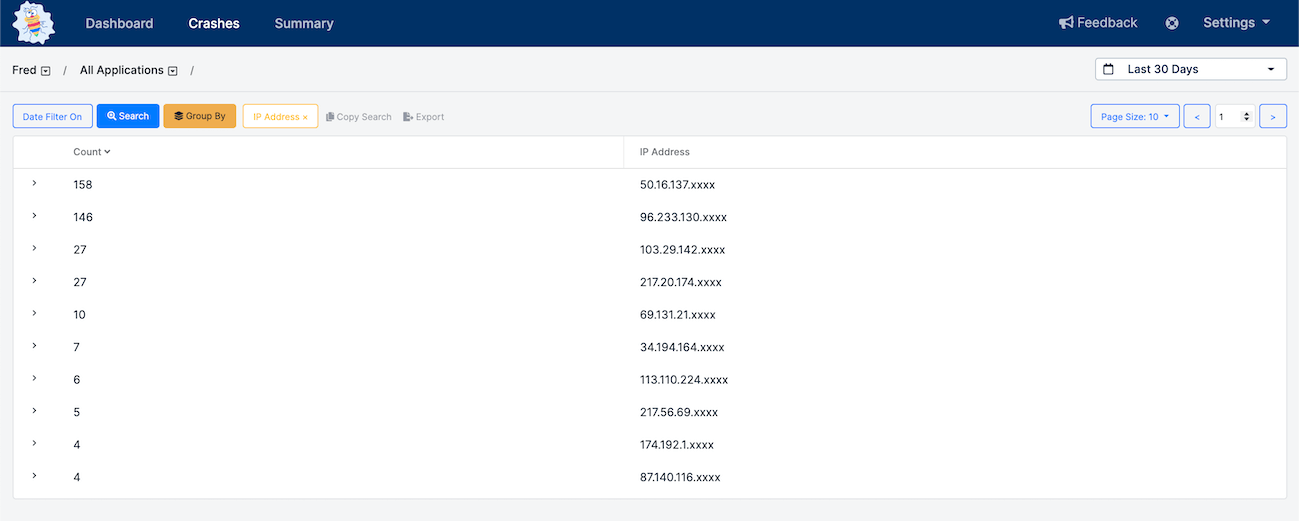
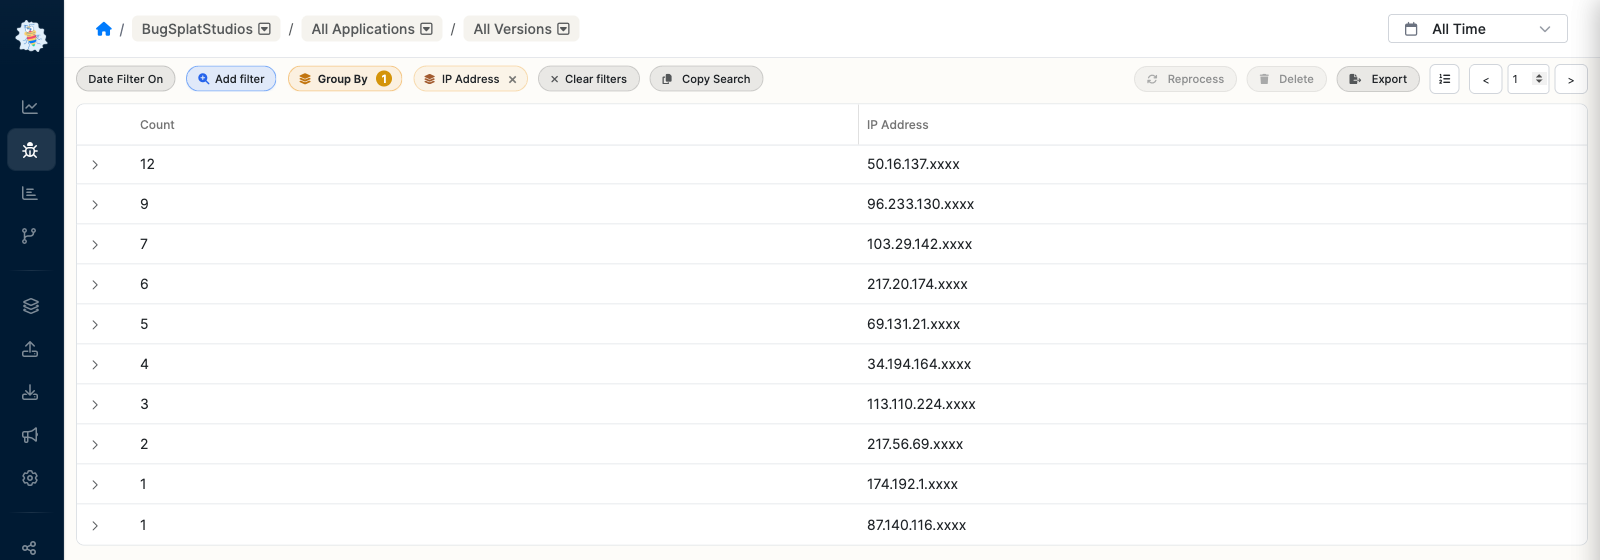
docs: refresh contacting-users and group-by-IP screenshots (#308)
Recapture against the current app UI (collapsed sidebar, breadcrumb chips,
white cards):

- contacting-users: new Report Details view with the Contact button
  highlighted; update the button reference from "Contact User" to "Contact"
  to match the current label
- searching/grouping: Group By -> IP Address with host octets masked
  (a.b.c.xxxx) and a ranked per-subnet crash distribution

Closes #204. Partially addresses #223 (group-by-multiple.gif still needs an
animated recapture).

diff --git a/education/how-tos/contacting-users.md b/education/how-tos/contacting-users.md
@@ -1,8 +1,8 @@
 # Contacting End-Users
 
-If a crash or error was submitted by an [end-user](../bugsplat-terminology.md#end-users), and that user included a valid email address as part of the submission, then it is possible to send an email to that end user regarding the crash by clicking the “Contact User” button \(below\).
+If a crash or error was submitted by an [end-user](../bugsplat-terminology.md#end-users), and that user included a valid email address as part of the submission, then it is possible to send an email to that end user regarding the crash by clicking the “Contact” button \(below\).
 
 ![](../../.gitbook/assets/contact-users-bs.png)
 
-If an email address hasn't been provided, or it has been obfuscated to protect customer information, then the **Contact User** button will be disabled. 
+If an email address hasn't been provided, or it has been obfuscated to protect customer information, then the **Contact** button will be disabled.
 
